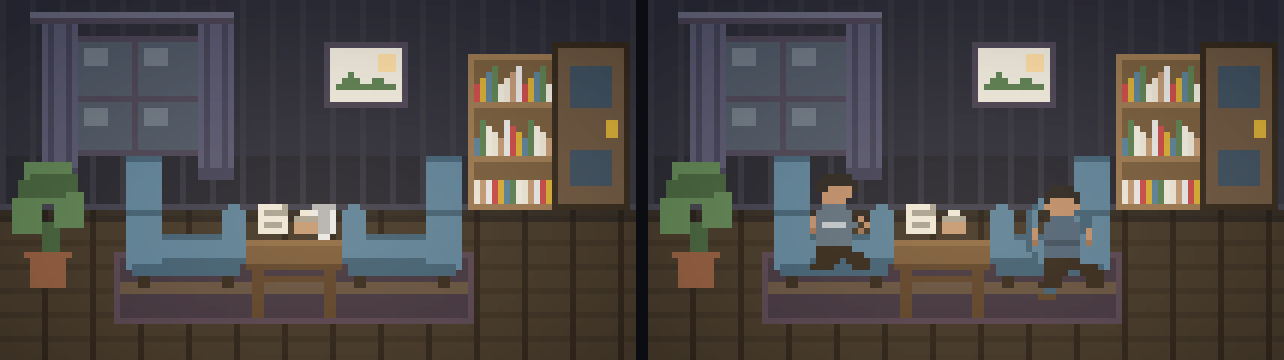
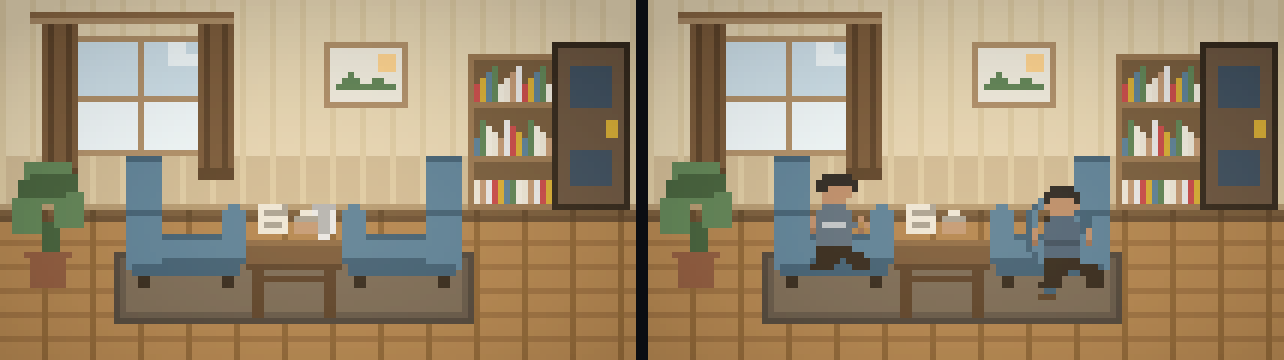
美术风格优化：冷暗糊 → 暖亮可读（参考星露谷/泰拉瑞亚的渲染手法）
诊断：原场景的问题不是不够好看，是**明度全挤在暗部**——
墙 #2b2c39、地板 #413527、家具 #413527 落在同一档，所以糊成一片；
窗户 #4c5666 是全屋本该最亮的地方，却是暗的。墙还偏冷蓝紫，像地窖。

1) 调色板（只换色值，保留 39 个字符键，校验器仍通过）
   墙    #2b2c39 → #e8d8b6  暖奶油
   地板  #413527 → #b3854f  蜂蜜橡木
   窗玻璃 #4c5666 → #cfe3ee  天光（全画面最亮）
   地毯  #40333f/#54424f/#63503f → 中性暖褐（@ O % 仅地毯使用，已核实）
   踢脚线 #3d3e4d → #b59a72，与护墙板解耦，不再像一条贴纸
   沙发蓝 s/S 保持不动 —— 存档 §四 冻结的专业配置

2) 窗户重画（22×20）：从深灰格栅改成真正的天光——细外框 + 单十字棂，
   上半天空、下半透光、右上角一簇日光。

3) 背景分层（engine.js bgChar）：新增护墙板分界与踢脚线，
   靠窗一侧略亮，让光从窗户进来在背景层就成立。

4) 地板纹理试错三次，过程记在代码注释里：
   规整网格 → 读成瓷砖；纯哈希散点 → 读成地面脏了；
   最终用**方向性横向短纹 + 稀疏错开板端**，间隔取 11 破掉等距虚线感。

5) 界面外壳：冷蓝灰 #2b2c39 → 深暖褐 #241b14。
   暖房间围一圈冷灰会像黑屋子里开了个亮洞，深暖褐读起来像木框。
   正文对比度实测 14.8:1，次要文字 7.5:1，最弱一层 4.3:1（均达标）。

6) 压暗层 0.55 → 0.38：原值在底部切出一条生硬暗带。

产物 124.9 → 130.4 KB。全套 6 项检查 18 秒全绿。
对比图见 docs/mockups/shots/art-before-after.png

diff --git a/心理咨询.html b/心理咨询.html
@@ -14,18 +14,18 @@
 
 :root {
   /* ---- 色板（全部取自方案 B 已冻结的 39 色，界面和房间是同一个下午）---- */
-  --wall:      #2b2c39;  /* 墙灰 · 页面底 */
-  --wall-dark: #24252f;  /* 深缝 · 更深一层 */
-  --base:      #3d3e4d;  /* 踢脚线 · 所有分隔线 */
-  --floor:     #413527;  /* 地板棕 · 侧栏 */
+  --wall:      #241b14;  /* 墙灰 · 页面底 */
+  --wall-dark: #1b140f;  /* 深缝 · 更深一层 */
+  --base:      #3a2b1f;  /* 踢脚线 · 所有分隔线 */
+  --floor:     #2e2115;  /* 地板棕 · 侧栏 */
   --blue:      #5b8199;  /* 沙发蓝 · 品牌色 */
   --blue-dim:  #3f5f75;  /* 沙发暗蓝 */
   --lamp:      #ffe0a8;  /* 暖灯黄 · 唯一的高饱和暖色 */
   --paper:     #efe3c8;  /* 纸黄 · 督导笔记 */
   --paper-ink: #3a3227;  /* 纸上的字 */
-  --ink:       #f2eee2;  /* 钟面米 · 正文 */
-  --ink-dim:   #9d9a92;  /* 次要文字 */
-  --ink-faint: #6f6c66;  /* 最弱的一层 */
+  --ink:       #f4efe6;  /* 钟面米 · 正文 */
+  --ink-dim:   #b6ab9c;  /* 次要文字 */
+  --ink-faint: #8a7f72;  /* 最弱的一层 */
 
   /* 说话人 */
   --who-narrator:   #8b8880;
@@ -858,19 +858,19 @@ body::before {
     "h": 60
   },
   "pal": {
-    ".": "#2b2c39",
-    ",": "#32333f",
-    "-": "#24252f",
-    "=": "#3d3e4d",
-    "#": "#413527",
-    "+": "#392e22",
-    "|": "#2b2118",
-    "f": "#4a4356",
-    "g": "#4c5666",
-    "h": "#6d7886",
-    "n": "#565670",
-    "m": "#414158",
-    "q": "#6a6a82",
+    ".": "#e8d8b6",
+    ",": "#dfcda6",
+    "-": "#d2bd97",
+    "=": "#b59a72",
+    "#": "#b3854f",
+    "+": "#9d7141",
+    "|": "#8f6636",
+    "f": "#b0906a",
+    "g": "#cfe3ee",
+    "h": "#f2fbff",
+    "n": "#7a5a3a",
+    "m": "#5c4229",
+    "q": "#8b6844",
     "D": "#33281c",
     "d": "#6b5540",
     "e": "#54412f",
@@ -884,8 +884,8 @@ body::before {
     "t": "#7a5a3a",
     "u": "#5c4229",
     "v": "#8e6b45",
-    "p": "#5c8253",
-    "P": "#42603c",
+    "p": "#5f8557",
+    "P": "#43613c",
     "o": "#8f5a3e",
     "b": "#9a7852",
     "B": "#775c3d",
@@ -893,32 +893,32 @@ body::before {
     "G": "#c4bdac",
     "C": "#eaeaea",
     "V": "#b4b4b4",
-    "@": "#54424f",
-    "O": "#40333f",
-    "%": "#63503f",
-    "j": "#ffe0a8"
+    "@": "#655849",
+    "O": "#4f453a",
+    "%": "#7a6a56",
+    "j": "#ffd591"
   },
   "sprites": {
     "window": [
       "ffffffffffffffffffffff",
-      "fgggggggggfggggggggggf",
-      "fghhhhggggfghhhhgggggf",
-      "fghhhhggggfghhhhgggggf",
-      "fghhhhggggfghhhhgggggf",
-      "fgggggggggfggggggggggf",
-      "fgggggggggfggggggggggf",
-      "fgggggggggfggggggggggf",
-      "fgggggggggfggggggggggf",
-      "fgggggggggfggggggggggf",
+      "fggggggggggfgggghhhggf",
+      "fggggggggggfgggghhhggf",
+      "fggggggggggfgggghhhhhf",
+      "fggggggggggfgggghhhhhf",
+      "fggggggggggfgggggggggf",
+      "fggggggggggfgggggggggf",
+      "fggggggggggfgggggggggf",
+      "fggggggggggfgggggggggf",
+      "fggggggggggfgggggggggf",
       "ffffffffffffffffffffff",
-      "fgggggggggfggggggggggf",
-      "fghhhhggggfghhhhgggggf",
-      "fghhhhggggfghhhhgggggf",
-      "fghhhhggggfghhhhgggggf",
-      "fgggggggggfggggggggggf",
-      "fgggggggggfggggggggggf",
-      "fgggggggggfggggggggggf",
-      "fgggggggggfggggggggggf",
+      "fhhhhhhhhhhfhhhhhhhhhf",
+      "fhhhhhhhhhhfhhhhhhhhhf",
+      "fhhhhhhhhhhfhhhhhhhhhf",
+      "fhhhhhhhhhhfhhhhhhhhhf",
+      "fhhhhhhhhhhfhhhhhhhhhf",
+      "fhhhhhhhhhhfhhhhhhhhhf",
+      "fhhhhhhhhhhfhhhhhhhhhf",
+      "fhhhhhhhhhhfhhhhhhhhhf",
       "ffffffffffffffffffffff"
     ],
     "curtainL": [
@@ -1090,18 +1090,18 @@ body::before {
       "    oooooo    "
     ],
     "rug": [
-      "@@@@@@@@@@@@@@@@@@@@@@@@@@@@@@@@@@@@@@@@@@@@@@@@@@@@@@@@@@@@",
-      "@OOOOOOOOOOOOOOOOOOOOOOOOOOOOOOOOOOOOOOOOOOOOOOOOOOOOOOOOOO@",
-      "@OOOOOOOOOOOOOOOOOOOOOOOOOOOOOOOOOOOOOOOOOOOOOOOOOOOOOOOOOO@",
-      "@OOOOOOOOOOOOOOOOOOOOOOOOOOOOOOOOOOOOOOOOOOOOOOOOOOOOOOOOOO@",
-      "@OOOOOOOOOOOOOOOOOOOOOOOOOOOOOOOOOOOOOOOOOOOOOOOOOOOOOOOOOO@",
-      "@%%%%%%%%%%%%%%%%%%%%%%%%%%%%%%%%%%%%%%%%%%%%%%%%%%%%%%%%%%@",
-      "@%%%%%%%%%%%%%%%%%%%%%%%%%%%%%%%%%%%%%%%%%%%%%%%%%%%%%%%%%%@",
-      "@OOOOOOOOOOOOOOOOOOOOOOOOOOOOOOOOOOOOOOOOOOOOOOOOOOOOOOOOOO@",
-      "@OOOOOOOOOOOOOOOOOOOOOOOOOOOOOOOOOOOOOOOOOOOOOOOOOOOOOOOOOO@",
-      "@OOOOOOOOOOOOOOOOOOOOOOOOOOOOOOOOOOOOOOOOOOOOOOOOOOOOOOOOOO@",
-      "@OOOOOOOOOOOOOOOOOOOOOOOOOOOOOOOOOOOOOOOOOOOOOOOOOOOOOOOOOO@",
-      "@@@@@@@@@@@@@@@@@@@@@@@@@@@@@@@@@@@@@@@@@@@@@@@@@@@@@@@@@@@@"
+      "OOOOOOOOOOOOOOOOOOOOOOOOOOOOOOOOOOOOOOOOOOOOOOOOOOOOOOOOOOOO",
+      "O@@@@@@@@@@@@@@@@@@@@@@@@@@@@@@@@@@@@@@@@@@@@@@@@@@@@@@@@@@O",
+      "O@%%%%%%%%%%%%%%%%%%%%%%%%%%%%%%%%%%%%%%%%%%%%%%%%%%%%%%%%@O",
+      "O@%%%%%%%%%%%%%%%%%%%%%%%%%%%%%%%%%%%%%%%%%%%%%%%%%%%%%%%%@O",
+      "O@%%%%%%%%%%%%%%%%%%%%%%%%%%%%%%%%%%%%%%%%%%%%%%%%%%%%%%%%@O",
+      "O@%%%%%%%%%%%%%%%%%%%%%%%%%%%%%%%%%%%%%%%%%%%%%%%%%%%%%%%%@O",
+      "O@%%%%%%%%%%%%%%%%%%%%%%%%%%%%%%%%%%%%%%%%%%%%%%%%%%%%%%%%@O",
+      "O@%%%%%%%%%%%%%%%%%%%%%%%%%%%%%%%%%%%%%%%%%%%%%%%%%%%%%%%%@O",
+      "O@%%%%%%%%%%%%%%%%%%%%%%%%%%%%%%%%%%%%%%%%%%%%%%%%%%%%%%%%@O",
+      "O@%%%%%%%%%%%%%%%%%%%%%%%%%%%%%%%%%%%%%%%%%%%%%%%%%%%%%%%%@O",
+      "O@@@@@@@@@@@@@@@@@@@@@@@@@@@@@@@@@@@@@@@@@@@@@@@@@@@@@@@@@@O",
+      "OOOOOOOOOOOOOOOOOOOOOOOOOOOOOOOOOOOOOOOOOOOOOOOOOOOOOOOOOOOO"
     ],
     "sofaL": [
       " SSSSSS               ",
@@ -2529,15 +2529,68 @@ XLZX.storySlots = [
   // 场景渲染
   // --------------------------------------------------------------------------
 
-  /** 和方案 B 完全一致：墙、踢脚线、地板 */
+  /**
+   * 背景：墙 / 护墙板 / 踢脚线 / 木地板。
+   *
+   * 这一层是「房间」而不是「家具」的骨架，所以它决定整幅画的**明度层次**：
+   *   亮墙（. ,）→ 中间调护墙板（-）→ 过渡踢脚线（=）→ 中深地板（# ｜ +）
+   * 早先地板和家具落在同一档明度上（都是近黑褐），两者糊成一片，
+   * 所以看起来像把家具"贴"在墙纸上，而不是站在房间里。
+   *
+   * 另一处刻意的选择：**靠窗一侧更亮**。同一面墙从左到右有一个很轻的
+   * 渐变，地板也一样——这是让"光从窗户进来"这件事在背景层就成立，
+   * 而不是只靠最后一层半透明暖色硬叠。
+   */
+  const FLOOR_TOP = 34;        // 踢脚线所在行
+  const WAINSCOT = 26;         // 护墙板分界：往上亮墙、往下略深
+
+  /** 便宜的确定性哈希（0..n-1）。用来做不规则木纹，别用随机——同一帧要可复现。 */
+  function hash2(x, y) {
+    let n = (x * 374761393 + y * 668265263) | 0;
+    n = (n ^ (n >> 13)) * 1274126177 | 0;
+    return Math.abs(n ^ (n >> 16));
+  }
+
   function bgChar(x, y) {
-    if (y <= 33) {
+    if (y < FLOOR_TOP) {
+      // ---- 墙 ----
+      // 靠窗（左侧）一带略亮，向右极轻微压暗：让"光从窗户进来"在背景层就成立
+      const shade = x >= 40;
+      if (y >= WAINSCOT) return shade ? '-' : ',';
+      // 细竖纹壁纸：每 5 px 一道。太密的话 6 倍放大后会跳。
       if (x % 5 === 0) return ',';
-      return y >= 26 ? '-' : '.';
+      return shade ? ',' : '.';
     }
-    if (y === 34) return '=';
-    if (x % 8 === 7) return '|';
-    return y % 4 === 0 ? '+' : '#';
+    if (y === FLOOR_TOP) return '=';   // 踢脚线
+
+    // ---- 木地板 ----
+    // 走过的两次弯路，记下来免得再犯：
+    //   1. 每 4 行横缝 + 每 13 列竖缝 → 读成瓷砖
+    //   2. 纯哈希散点 → 读成地面脏了
+    // 木头真正可读的特征是**方向性**：纹路顺着板长走。所以这里用"横向短纹"
+    // 加"稀疏板端竖缝"，两者错开，才有木地板的读感。
+    const h = hash2(x, y);
+    const course = y - FLOOR_TOP;
+
+    // 板端：稀疏的短竖缝（相邻层错开，且不通长）
+    const seamShift = (course & 1) ? 6 : 0;
+    if ((x + seamShift) % 19 === 0) return '|';
+
+    // 木纹：顺着板长方向的短横道。
+    // 关键是不能用"当前像素的哈希"决定自己画不画——那只会画出单点。
+    // 改为：每 6 px 放一个**锚点**，由锚点的哈希决定这一道的起点与长度。
+    const anchor = x - (((x % 11) + 11) % 11);
+    const ah = hash2(anchor, y);
+    if (ah % 9 === 0) {
+      const start = anchor + (ah % 3);
+      const len = 2 + (ah % 4);          // 2–5 px
+      if (x >= start && x < start + len) return '+';
+    }
+
+    // 极稀疏的木节，打破均匀（只要几个）
+    if (h % 211 === 0) return '|';
+
+    return '#';
   }
 
   const NS = 'http://www.w3.org/2000/svg';
@@ -2670,7 +2723,7 @@ XLZX.storySlots = [
     // --- 5) 暖光与四角压暗（整体叠一层）---
     const w = X.WARMTH[warmth] || X.WARMTH[1];
     svg.appendChild(el('rect', { x: 0, y: 0, width: GW, height: GH, fill: '#ffd9a0', opacity: w.glow }));
-    svg.appendChild(el('rect', { x: 0, y: 0, width: GW, height: GH, fill: '#06070a', opacity: w.vignette * 0.55 }));
+    svg.appendChild(el('rect', { x: 0, y: 0, width: GW, height: GH, fill: '#06070a', opacity: w.vignette * 0.38 }));
 
     // --- 6) 可点物件的热区。放最上层，保证不被人物挡住。---
     HOTSPOTS.forEach(function (hs) {

diff --git a/src/engine.js b/src/engine.js
@@ -209,15 +209,68 @@
   // 场景渲染
   // --------------------------------------------------------------------------
 
-  /** 和方案 B 完全一致：墙、踢脚线、地板 */
+  /**
+   * 背景：墙 / 护墙板 / 踢脚线 / 木地板。
+   *
+   * 这一层是「房间」而不是「家具」的骨架，所以它决定整幅画的**明度层次**：
+   *   亮墙（. ,）→ 中间调护墙板（-）→ 过渡踢脚线（=）→ 中深地板（# ｜ +）
+   * 早先地板和家具落在同一档明度上（都是近黑褐），两者糊成一片，
+   * 所以看起来像把家具"贴"在墙纸上，而不是站在房间里。
+   *
+   * 另一处刻意的选择：**靠窗一侧更亮**。同一面墙从左到右有一个很轻的
+   * 渐变，地板也一样——这是让"光从窗户进来"这件事在背景层就成立，
+   * 而不是只靠最后一层半透明暖色硬叠。
+   */
+  const FLOOR_TOP = 34;        // 踢脚线所在行
+  const WAINSCOT = 26;         // 护墙板分界：往上亮墙、往下略深
+
+  /** 便宜的确定性哈希（0..n-1）。用来做不规则木纹，别用随机——同一帧要可复现。 */
+  function hash2(x, y) {
+    let n = (x * 374761393 + y * 668265263) | 0;
+    n = (n ^ (n >> 13)) * 1274126177 | 0;
+    return Math.abs(n ^ (n >> 16));
+  }
+
   function bgChar(x, y) {
-    if (y <= 33) {
+    if (y < FLOOR_TOP) {
+      // ---- 墙 ----
+      // 靠窗（左侧）一带略亮，向右极轻微压暗：让"光从窗户进来"在背景层就成立
+      const shade = x >= 40;
+      if (y >= WAINSCOT) return shade ? '-' : ',';
+      // 细竖纹壁纸：每 5 px 一道。太密的话 6 倍放大后会跳。
       if (x % 5 === 0) return ',';
-      return y >= 26 ? '-' : '.';
+      return shade ? ',' : '.';
     }
-    if (y === 34) return '=';
-    if (x % 8 === 7) return '|';
-    return y % 4 === 0 ? '+' : '#';
+    if (y === FLOOR_TOP) return '=';   // 踢脚线
+
+    // ---- 木地板 ----
+    // 走过的两次弯路，记下来免得再犯：
+    //   1. 每 4 行横缝 + 每 13 列竖缝 → 读成瓷砖
+    //   2. 纯哈希散点 → 读成地面脏了
+    // 木头真正可读的特征是**方向性**：纹路顺着板长走。所以这里用"横向短纹"
+    // 加"稀疏板端竖缝"，两者错开，才有木地板的读感。
+    const h = hash2(x, y);
+    const course = y - FLOOR_TOP;
+
+    // 板端：稀疏的短竖缝（相邻层错开，且不通长）
+    const seamShift = (course & 1) ? 6 : 0;
+    if ((x + seamShift) % 19 === 0) return '|';
+
+    // 木纹：顺着板长方向的短横道。
+    // 关键是不能用"当前像素的哈希"决定自己画不画——那只会画出单点。
+    // 改为：每 6 px 放一个**锚点**，由锚点的哈希决定这一道的起点与长度。
+    const anchor = x - (((x % 11) + 11) % 11);
+    const ah = hash2(anchor, y);
+    if (ah % 9 === 0) {
+      const start = anchor + (ah % 3);
+      const len = 2 + (ah % 4);          // 2–5 px
+      if (x >= start && x < start + len) return '+';
+    }
+
+    // 极稀疏的木节，打破均匀（只要几个）
+    if (h % 211 === 0) return '|';
+
+    return '#';
   }
 
   const NS = 'http://www.w3.org/2000/svg';
@@ -350,7 +403,7 @@
     // --- 5) 暖光与四角压暗（整体叠一层）---
     const w = X.WARMTH[warmth] || X.WARMTH[1];
     svg.appendChild(el('rect', { x: 0, y: 0, width: GW, height: GH, fill: '#ffd9a0', opacity: w.glow }));
-    svg.appendChild(el('rect', { x: 0, y: 0, width: GW, height: GH, fill: '#06070a', opacity: w.vignette * 0.55 }));
+    svg.appendChild(el('rect', { x: 0, y: 0, width: GW, height: GH, fill: '#06070a', opacity: w.vignette * 0.38 }));
 
     // --- 6) 可点物件的热区。放最上层，保证不被人物挡住。---
     HOTSPOTS.forEach(function (hs) {

diff --git a/src/styles.css b/src/styles.css
@@ -5,18 +5,18 @@
 
 :root {
   /* ---- 色板（全部取自方案 B 已冻结的 39 色，界面和房间是同一个下午）---- */
-  --wall:      #2b2c39;  /* 墙灰 · 页面底 */
-  --wall-dark: #24252f;  /* 深缝 · 更深一层 */
-  --base:      #3d3e4d;  /* 踢脚线 · 所有分隔线 */
-  --floor:     #413527;  /* 地板棕 · 侧栏 */
+  --wall:      #241b14;  /* 墙灰 · 页面底 */
+  --wall-dark: #1b140f;  /* 深缝 · 更深一层 */
+  --base:      #3a2b1f;  /* 踢脚线 · 所有分隔线 */
+  --floor:     #2e2115;  /* 地板棕 · 侧栏 */
   --blue:      #5b8199;  /* 沙发蓝 · 品牌色 */
   --blue-dim:  #3f5f75;  /* 沙发暗蓝 */
   --lamp:      #ffe0a8;  /* 暖灯黄 · 唯一的高饱和暖色 */
   --paper:     #efe3c8;  /* 纸黄 · 督导笔记 */
   --paper-ink: #3a3227;  /* 纸上的字 */
-  --ink:       #f2eee2;  /* 钟面米 · 正文 */
-  --ink-dim:   #9d9a92;  /* 次要文字 */
-  --ink-faint: #6f6c66;  /* 最弱的一层 */
+  --ink:       #f4efe6;  /* 钟面米 · 正文 */
+  --ink-dim:   #b6ab9c;  /* 次要文字 */
+  --ink-faint: #8a7f72;  /* 最弱的一层 */
 
   /* 说话人 */
   --who-narrator:   #8b8880;
